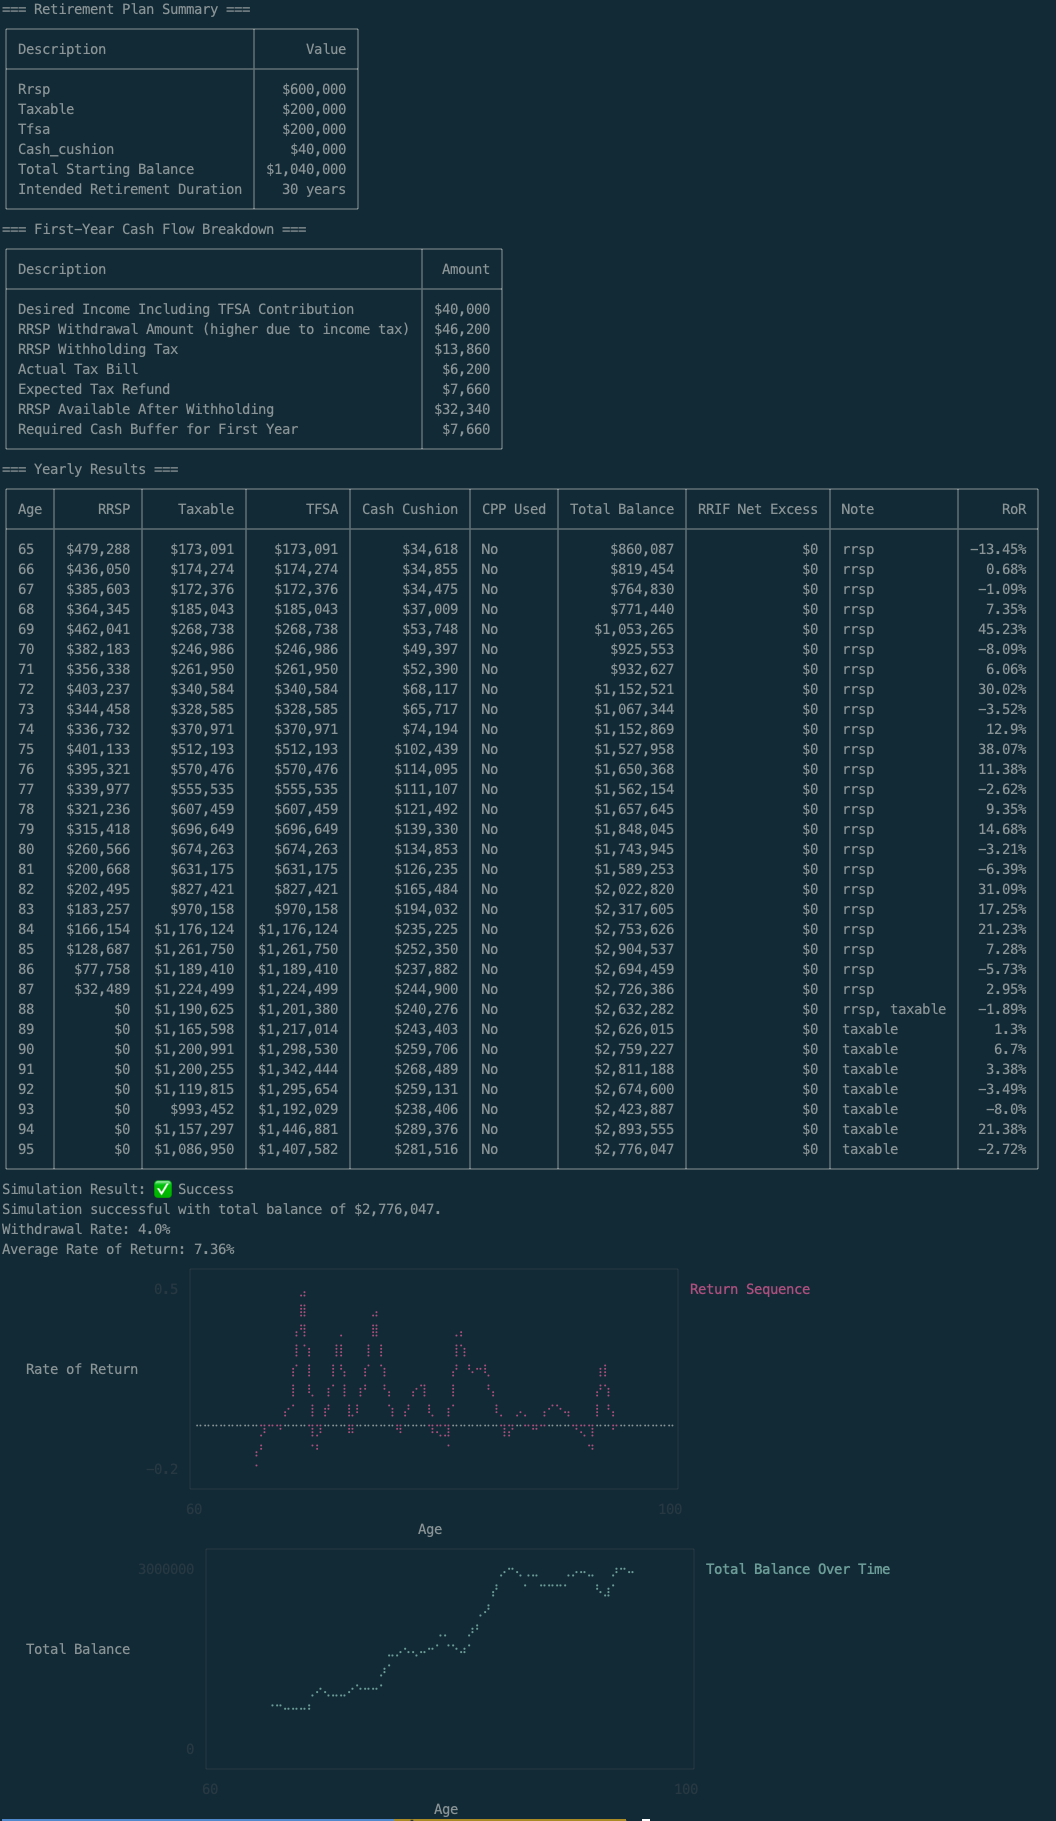
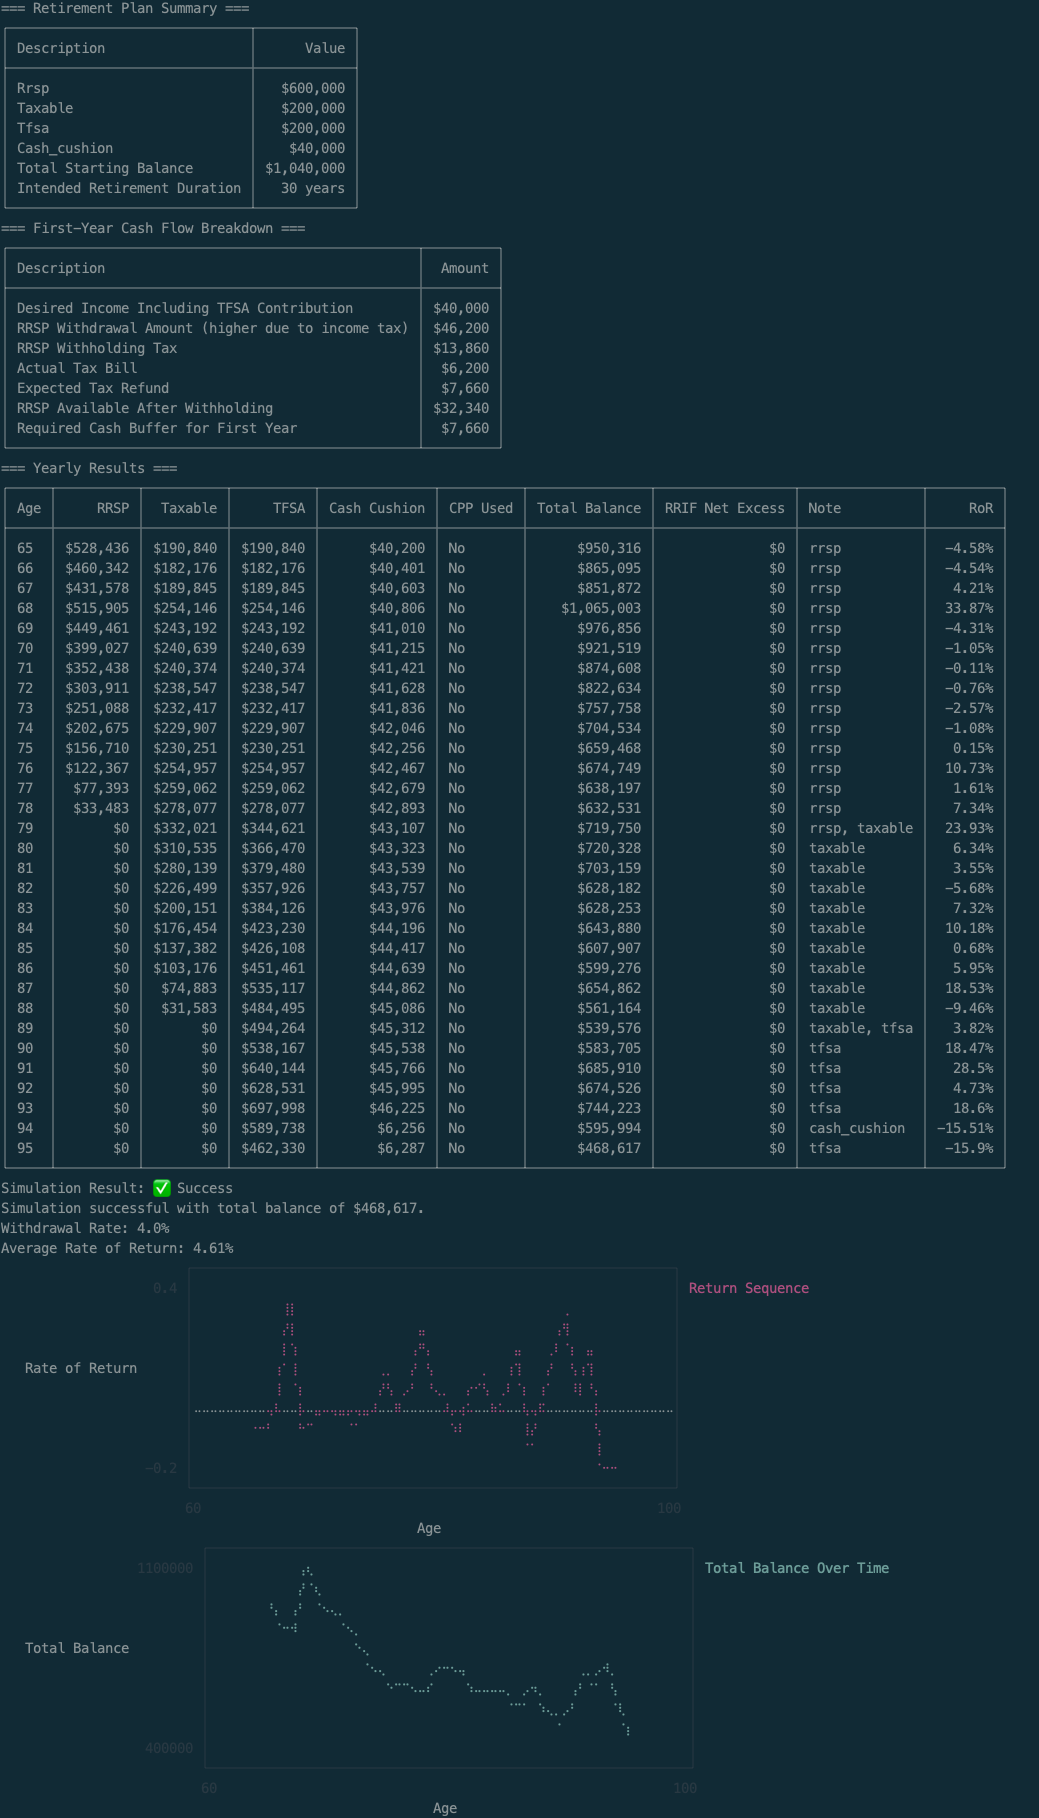
limit gbm to four decimal places so that calculations match displayed ror in table

diff --git a/spec/lib/return_sequences/geometric_brownian_motion_sequence_spec.rb b/spec/lib/return_sequences/geometric_brownian_motion_sequence_spec.rb
@@ -1,0 +1,81 @@
+# frozen_string_literal: true
+
+require_relative "../../spec_helper"
+
+RSpec.describe ReturnSequences::GeometricBrownianMotionSequence do
+  let(:avg) { 0.05 }  # 5% average return
+  let(:min) { -0.2 }  # -20% minimum return
+  let(:max) { 0.3 }   # 30% maximum return
+  let(:start_age) { 65 }
+  let(:max_age) { 75 }
+  let(:gbm) { described_class.new(start_age, max_age, avg, min, max) }
+
+  before do
+    srand(1234)
+  end
+
+  describe "#generate_returns" do
+    it "returns a hash with the correct number of entries" do
+      result = gbm.send(:generate_returns)
+      expect(result.size).to eq(max_age - start_age + 1) # One entry per age
+    end
+
+    it "has ages as the keys" do
+      result = gbm.send(:generate_returns)
+      expect(result.keys).to eq((start_age..max_age).to_a)
+    end
+
+    it "generates valid returns for each age" do
+      result = gbm.send(:generate_returns)
+      result.each_value do |return_value|
+        # Ensure the return is a float, rounded to 4 decimal places
+        expect(return_value).to be_a(Float)
+        expect(return_value).to eq(return_value.round(4))
+      end
+    end
+
+    it "calculates returns within reasonable range" do
+      result = gbm.send(:generate_returns)
+      result.each_value do |return_value|
+        # Returns should generally stay within [-1, 1] (i.e., -100% to 100%)
+        expect(return_value).to be_between(-1.0, 1.0)
+      end
+    end
+
+    context "when avg, min, and max are edge cases" do
+      let(:avg) { 0.0 }
+      let(:min) { -0.5 }
+      let(:max) { 0.5 }
+
+      it "calculates returns within the expected bounds" do
+        result = gbm.send(:generate_returns)
+        result.each_value do |return_value|
+          # Expect returns between -50% and +50% due to edge case inputs
+          expect(return_value).to be_between(-0.5, 0.5)
+        end
+      end
+    end
+  end
+
+  describe "#compute_sigma" do
+    it "computes sigma based on the deviation between min, avg, and max" do
+      expected_sigma = [max - avg, avg - min].max / 3.0
+      expect(gbm.send(:compute_sigma)).to eq(expected_sigma)
+    end
+  end
+
+  describe "#rand_normal" do
+    it "generates random numbers that follow a standard normal distribution" do
+      mean = 0.0
+      stddev = 1.0
+      sample = Array.new(1000) { gbm.send(:rand_normal, mean, stddev) }
+
+      # Check if the sample mean is close to 0 and standard deviation is close to 1
+      sample_mean = sample.sum / sample.size
+      sample_stddev = Math.sqrt(sample.sum { |x| (x - sample_mean)**2 } / sample.size)
+
+      expect(sample_mean).to be_within(0.1).of(mean)
+      expect(sample_stddev).to be_within(0.1).of(stddev)
+    end
+  end
+end

diff --git a/lib/output/console_printer.rb b/lib/output/console_printer.rb
@@ -42,7 +42,7 @@ module Output
 
     def format_cash_flow_results
       @first_year_cash_flow_results.map do |label, value|
-        [label, NumericFormatter.format_currency(value.round)]
+        [label, NumericFormatter.format_currency(value)]
       end
     end
 
@@ -80,7 +80,7 @@ module Output
     end
 
     def format_currency(value)
-      NumericFormatter.format_currency(value.round)
+      NumericFormatter.format_currency(value)
     end
 
     def format_percentage(value)

diff --git a/lib/return_sequences/geometric_brownian_motion_sequence.rb b/lib/return_sequences/geometric_brownian_motion_sequence.rb
@@ -19,7 +19,7 @@ module ReturnSequences
       (@start_age..@max_age).each do |age|
         z = rand_normal
         r = Math.exp(drift - (0.5 * (sigma**2)) + (sigma * z)) - 1
-        sequence[age] = r
+        sequence[age] = r.round(4)
       end
 
       sequence

diff --git a/README.md b/README.md
@@ -120,7 +120,7 @@ annual_growth_rate:
   average: 0.05
   min: -0.3
   max: 0.3
-  downturn_threshold: -0.2
+  downturn_threshold: -0.1
   savings: 0.005
 
 # Choose the return sequence generator: mean, geometric_brownian_motion, constant
@@ -175,11 +175,9 @@ taxes:
 
 ## Sample Output
 
-TODO: specify savings rate in inputs yml template and demo! Then redo screenshots!!
-
 Here's a run using `inputs.yml` copied from `inputs.yml.template` with a successful result - i.e. money lasts from a starting retirement age of 65 until `max_age` of 95, with at least 1x desired_income left. The desired_income of `$40,000` is 4% of the total starting balance of `$1,000,000` (which is divided among RRSP, taxable, and TFSA accounts). i.e. this is the 4% rule over a thirty year retirement period. There's also 1 year's worth of spending set aside in a cash cushion for use in case of a severe market downturn, although in this case, it doesn't get used.
 
-If there's not enough in one account for the full year's spending, it will combine withdrawals from multiple accounts. For example, at age 87 it combines what's left of the RRSP, with some from taxable.
+If there's not enough in one account for the full year's spending, it will combine withdrawals from multiple accounts. For example, at age 79 it combines what's left of the RRSP, with some from taxable. And again at age 89, when the taxable account is running low, it gets combined with tfsa.
 
 Also note since the RRSP balance is reduced relatively quickly, by the time mandatory RRIF withdrawals start at age 71, the required percentage of the remaining balance is less than what this user would have withdrawn in any case, so there's never any excess forced RRIF withdrawal.
 
@@ -189,13 +187,13 @@ ruby main.rb
 
 ![demo success](docs/images/demo_success.png "demo success")
 
-Here's another successful run with higher returns in the person's mid 80s that cause the RRSP balance to grow more. In this case, the mandatory RRIF rates by that age age greater than what the person needed to withdraw, resulting in an after-tax excess which gets deposited into the taxable account. This is shown as a positive RRIF Excess starting at age 84.
+Here's another successful run with higher returns in the person's mid 80s that cause the RRSP balance to grow more. In this case, the mandatory RRIF rates by that age age greater than what the person needed to withdraw, resulting in an after-tax excess which gets deposited into the taxable account. This is shown as a positive RRIF Excess starting at age 78.
 
 The RRIF Excess is the net amount, i.e. what you're left with after taxes from being forced to withdraw the larger amount. That's how the government gets their cut 🤑
 
 ![demo success rrif](docs/images/demo_success_rrif.png "demo success rrif")
 
-Here's a run where a bad initial sequence of returns causes the money to run out at age 94.
+Here's a run where a bad initial sequence of returns causes the money to run out at age 92. The one year's worth cash cushion is used at age 66 where there's an especially negative return but it's insufficient to save this scenario.
 
 ```
 ruby main.rb
@@ -223,24 +221,38 @@ Each row in the yearly output table represents what happened during that year. F
 And a desired income of `$40,000`, then to interpret these yearly results:
 ```
 === Yearly Results ===
-┌─────┬──────────┬──────────┬────────────┬──────────────┬──────────┬───────────────┬─────────────────┬───────────────┬─────────┐
-│ Age │     RRSP │  Taxable │       TFSA │ Cash Cushion │ CPP Used │ Total Balance │ RRIF Net Excess │ Note          │     RoR │
-├─────┼──────────┼──────────┼────────────┼──────────────┼──────────┼───────────────┼─────────────────┼───────────────┼─────────┤
-│ 65  │ $531,238 │ $191,852 │   $191,852 │      $38,370 │ No       │      $953,312 │              $0 │ rrsp          │  -4.07% │
-│ 66  │ $514,817 │ $203,631 │   $203,631 │      $40,726 │ No       │      $962,805 │              $0 │ rrsp          │   6.14% │
-│ 67  │ $470,095 │ $204,273 │   $204,273 │      $40,855 │ No       │      $919,496 │              $0 │ rrsp          │   0.32% │
+┌─────┬──────────┬──────────┬──────────┬──────────────┬──────────┬───────────────┬─────────────────┬───────────────┬─────────┐
+│ Age │     RRSP │  Taxable │     TFSA │ Cash Cushion │ CPP Used │ Total Balance │ RRIF Net Excess │ Note          │     RoR │
+├─────┼──────────┼──────────┼──────────┼──────────────┼──────────┼───────────────┼─────────────────┼───────────────┼─────────┤
+│ 65  │ $610,121 │ $220,340 │ $220,340 │      $40,200 │ No       │    $1,091,001 │              $0 │ rrsp          │  10.17% │
+│ 66  │ $638,867 │ $249,623 │ $249,623 │      $40,401 │ No       │    $1,178,514 │              $0 │ rrsp          │  13.29% │
 ...
 ```
 
 Starting at age 65:
 - `$46,200` was withdrawn from the RRSP, which is necessary to be left with an after-tax income of `$40,000`.
-- Since the RRSP account had more than enough to accommodate gross income, that was the only account withdrawn from.
-- FIXME: apply growth, cash cushion should be at savings rate, not market rate, but not existing in inputs yml
+- Since the RRSP account had more than enough to accommodate gross income, that was the only account withdrawn from, which reduces the starting balance of `$600,000` to `$553,800`
+- Then all investment accounts (RRSP, taxable, TFSA) then have the market growth applied (shown as RoR for rate of return) in the table.
+- For the RRSP, the reduced balance of `$553,800` grows to `$610,121` (`$553,800` * `1.1017`).
+- The taxable and TFSA accounts also grow (or shrink) by the market RoR for that year, which is 10.17% in the first year.
+- The following year the process repeats - given the previous year's RRSP balance of `$610,121`, there's plenty to support the gross withdrawal of `$46,200`, and then growth is applied.
+- This continues until the RRSP is drained and it has to start drawing down the taxable account.
 
+### CPP
+
+TODO: Explain how CPP counts as taxable income so the impact varies if planned withdrawal is coming from RRSP, vs taxable or TFSA.
+
+### Mandatory RRIF Withdrawals
+
+TODO: Explain
+
+### Rate of Return
+
+TODO: Explanation about use of GBM rather than constant or even average returns, drifts, volatility, random shocks in an attempt to be more realistic.
 
 ### Determining Your Success Rate
 
-You can use the `success_rate` mode (either specify it in `inputs.yml` or override it at the command line as shown below) to run the simulation many times over. In this case, it calculates the percentage of successful scenarios. For example, this shows that the 4% withdrawal rate over a thirty year period has a `79%` success rate, rather than the `95%` rate that's often reported in personal finance articles (which is based on US historical data).
+You can use the `success_rate` mode (either specify it in `inputs.yml` or override it at the command line as shown below) to run the simulation many times over. In this case, it calculates the percentage of successful scenarios. For example, this shows that the 4% withdrawal rate over a thirty year period has just over a `77%` success rate, rather than the `95%` rate that's often reported in personal finance articles (which is based on US historical data).
 
 ```
 ruby main.rb success_rate
